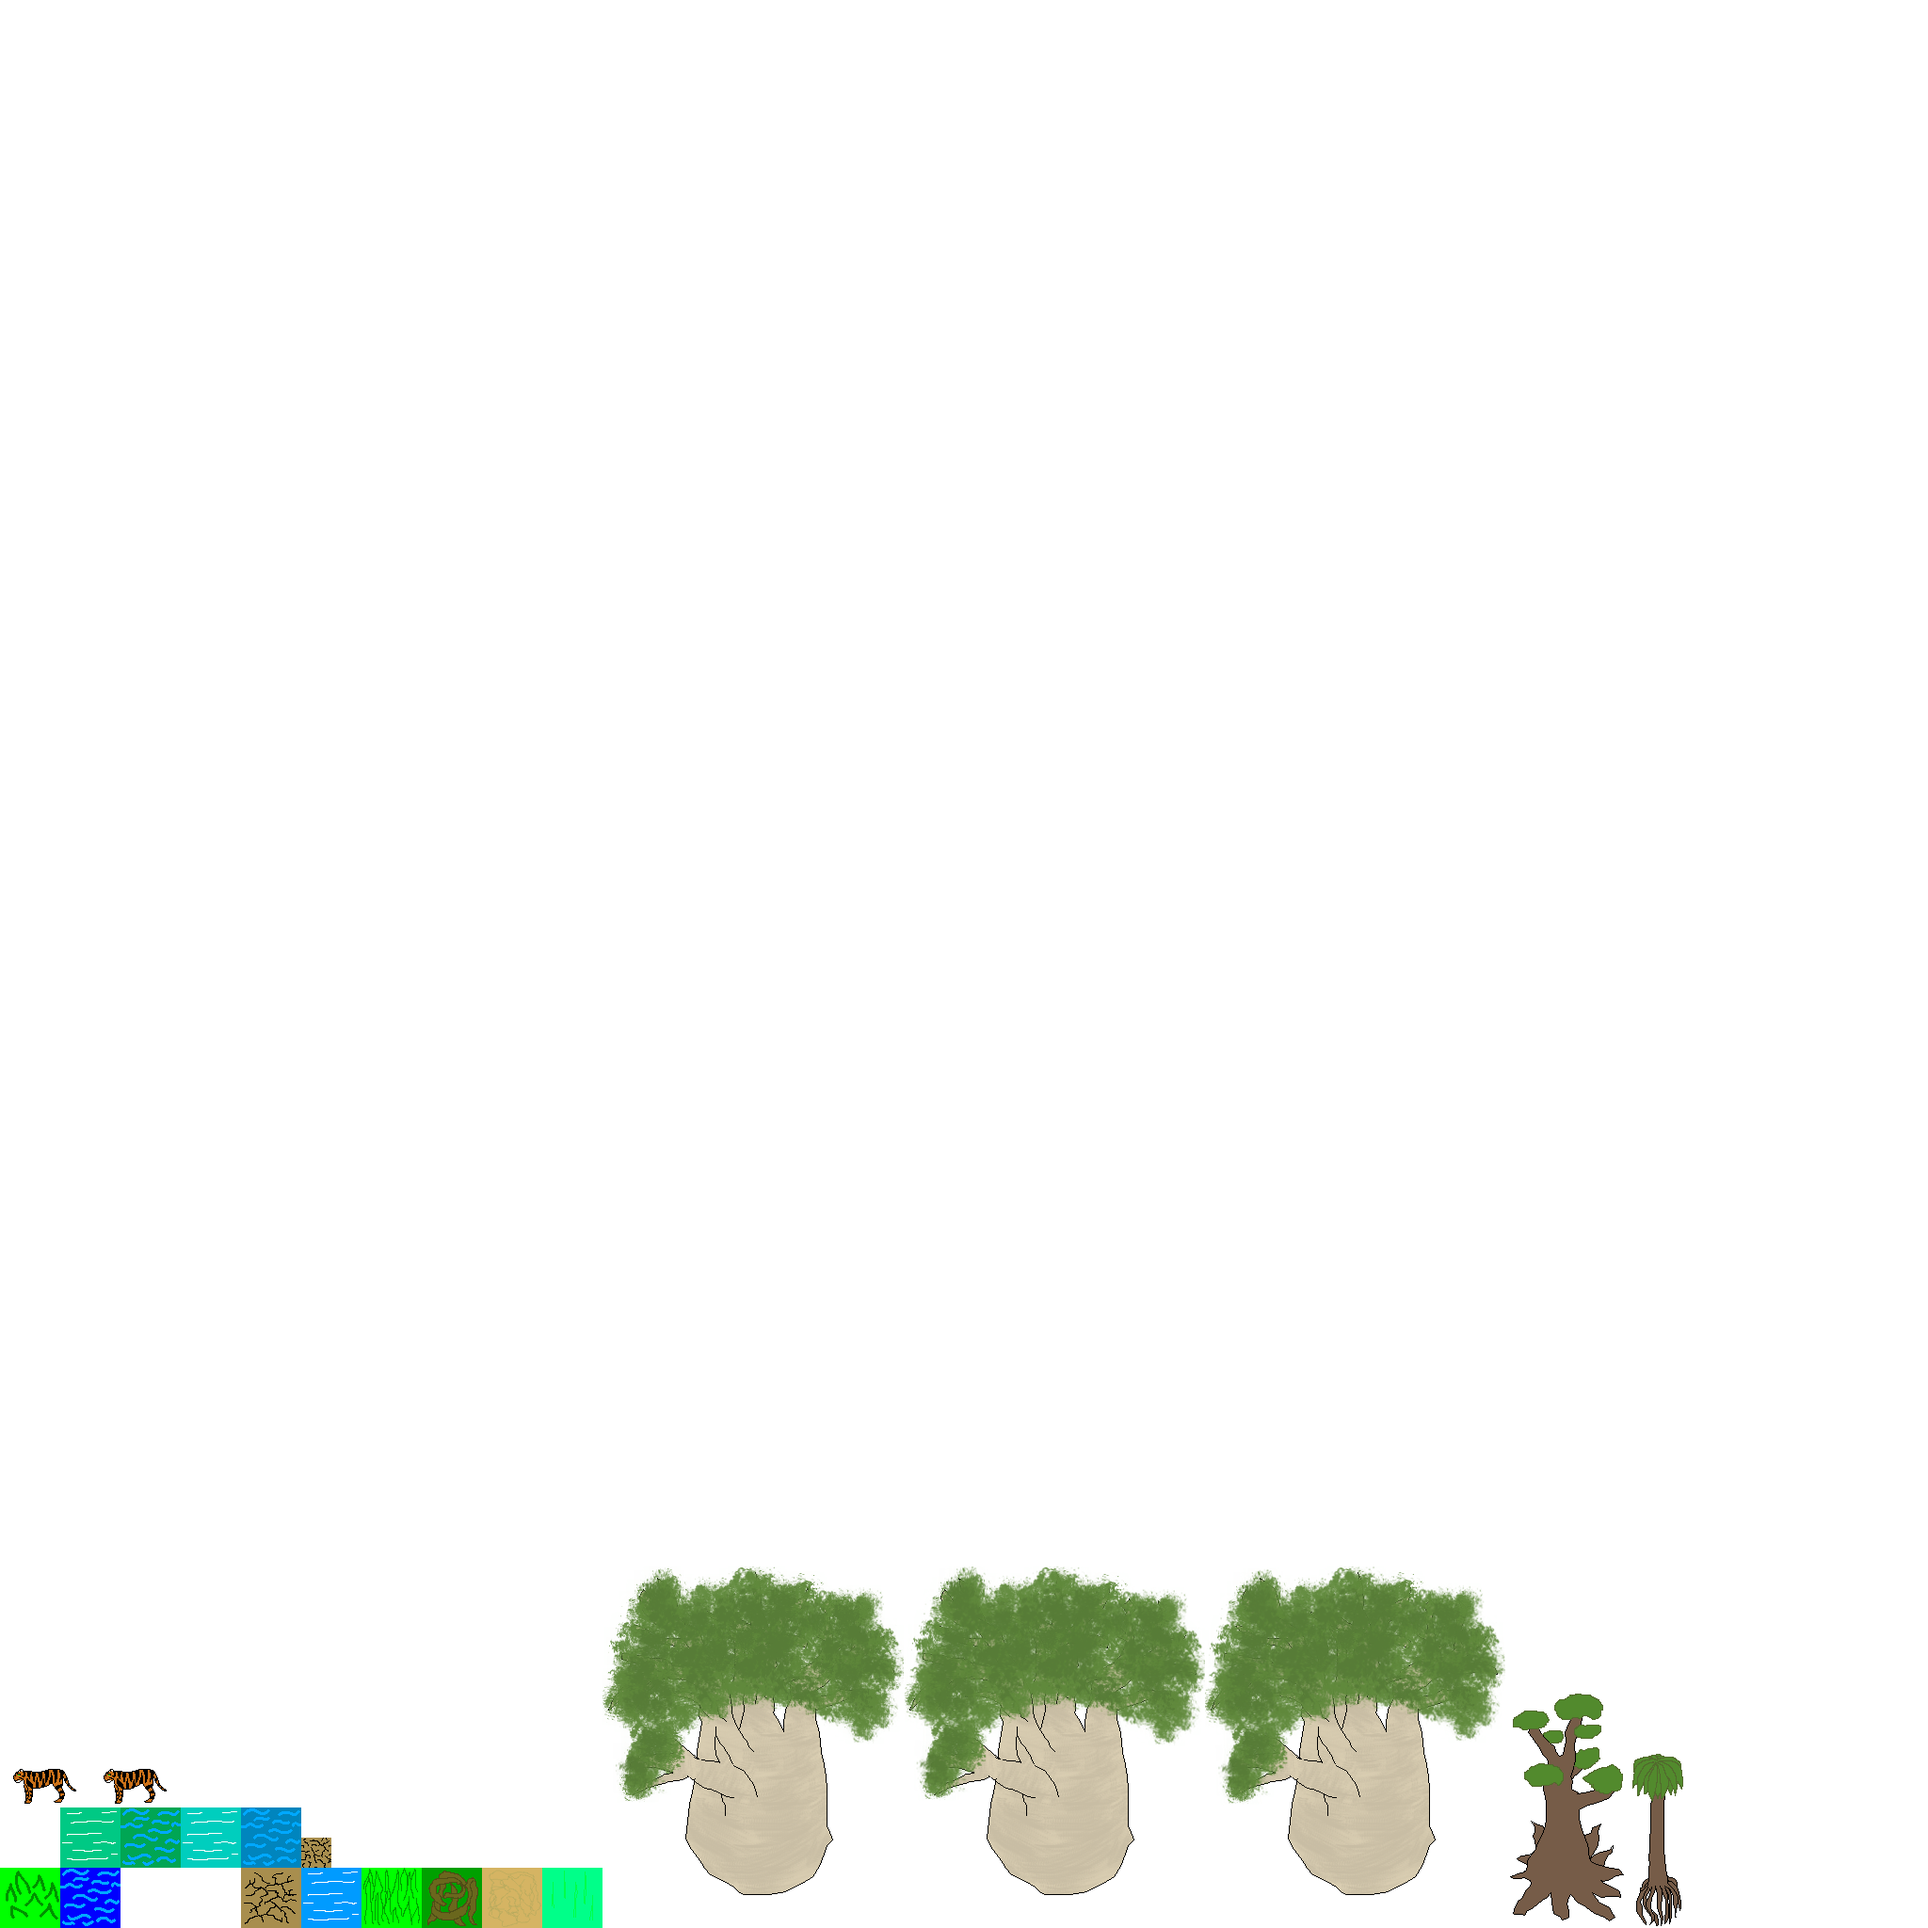
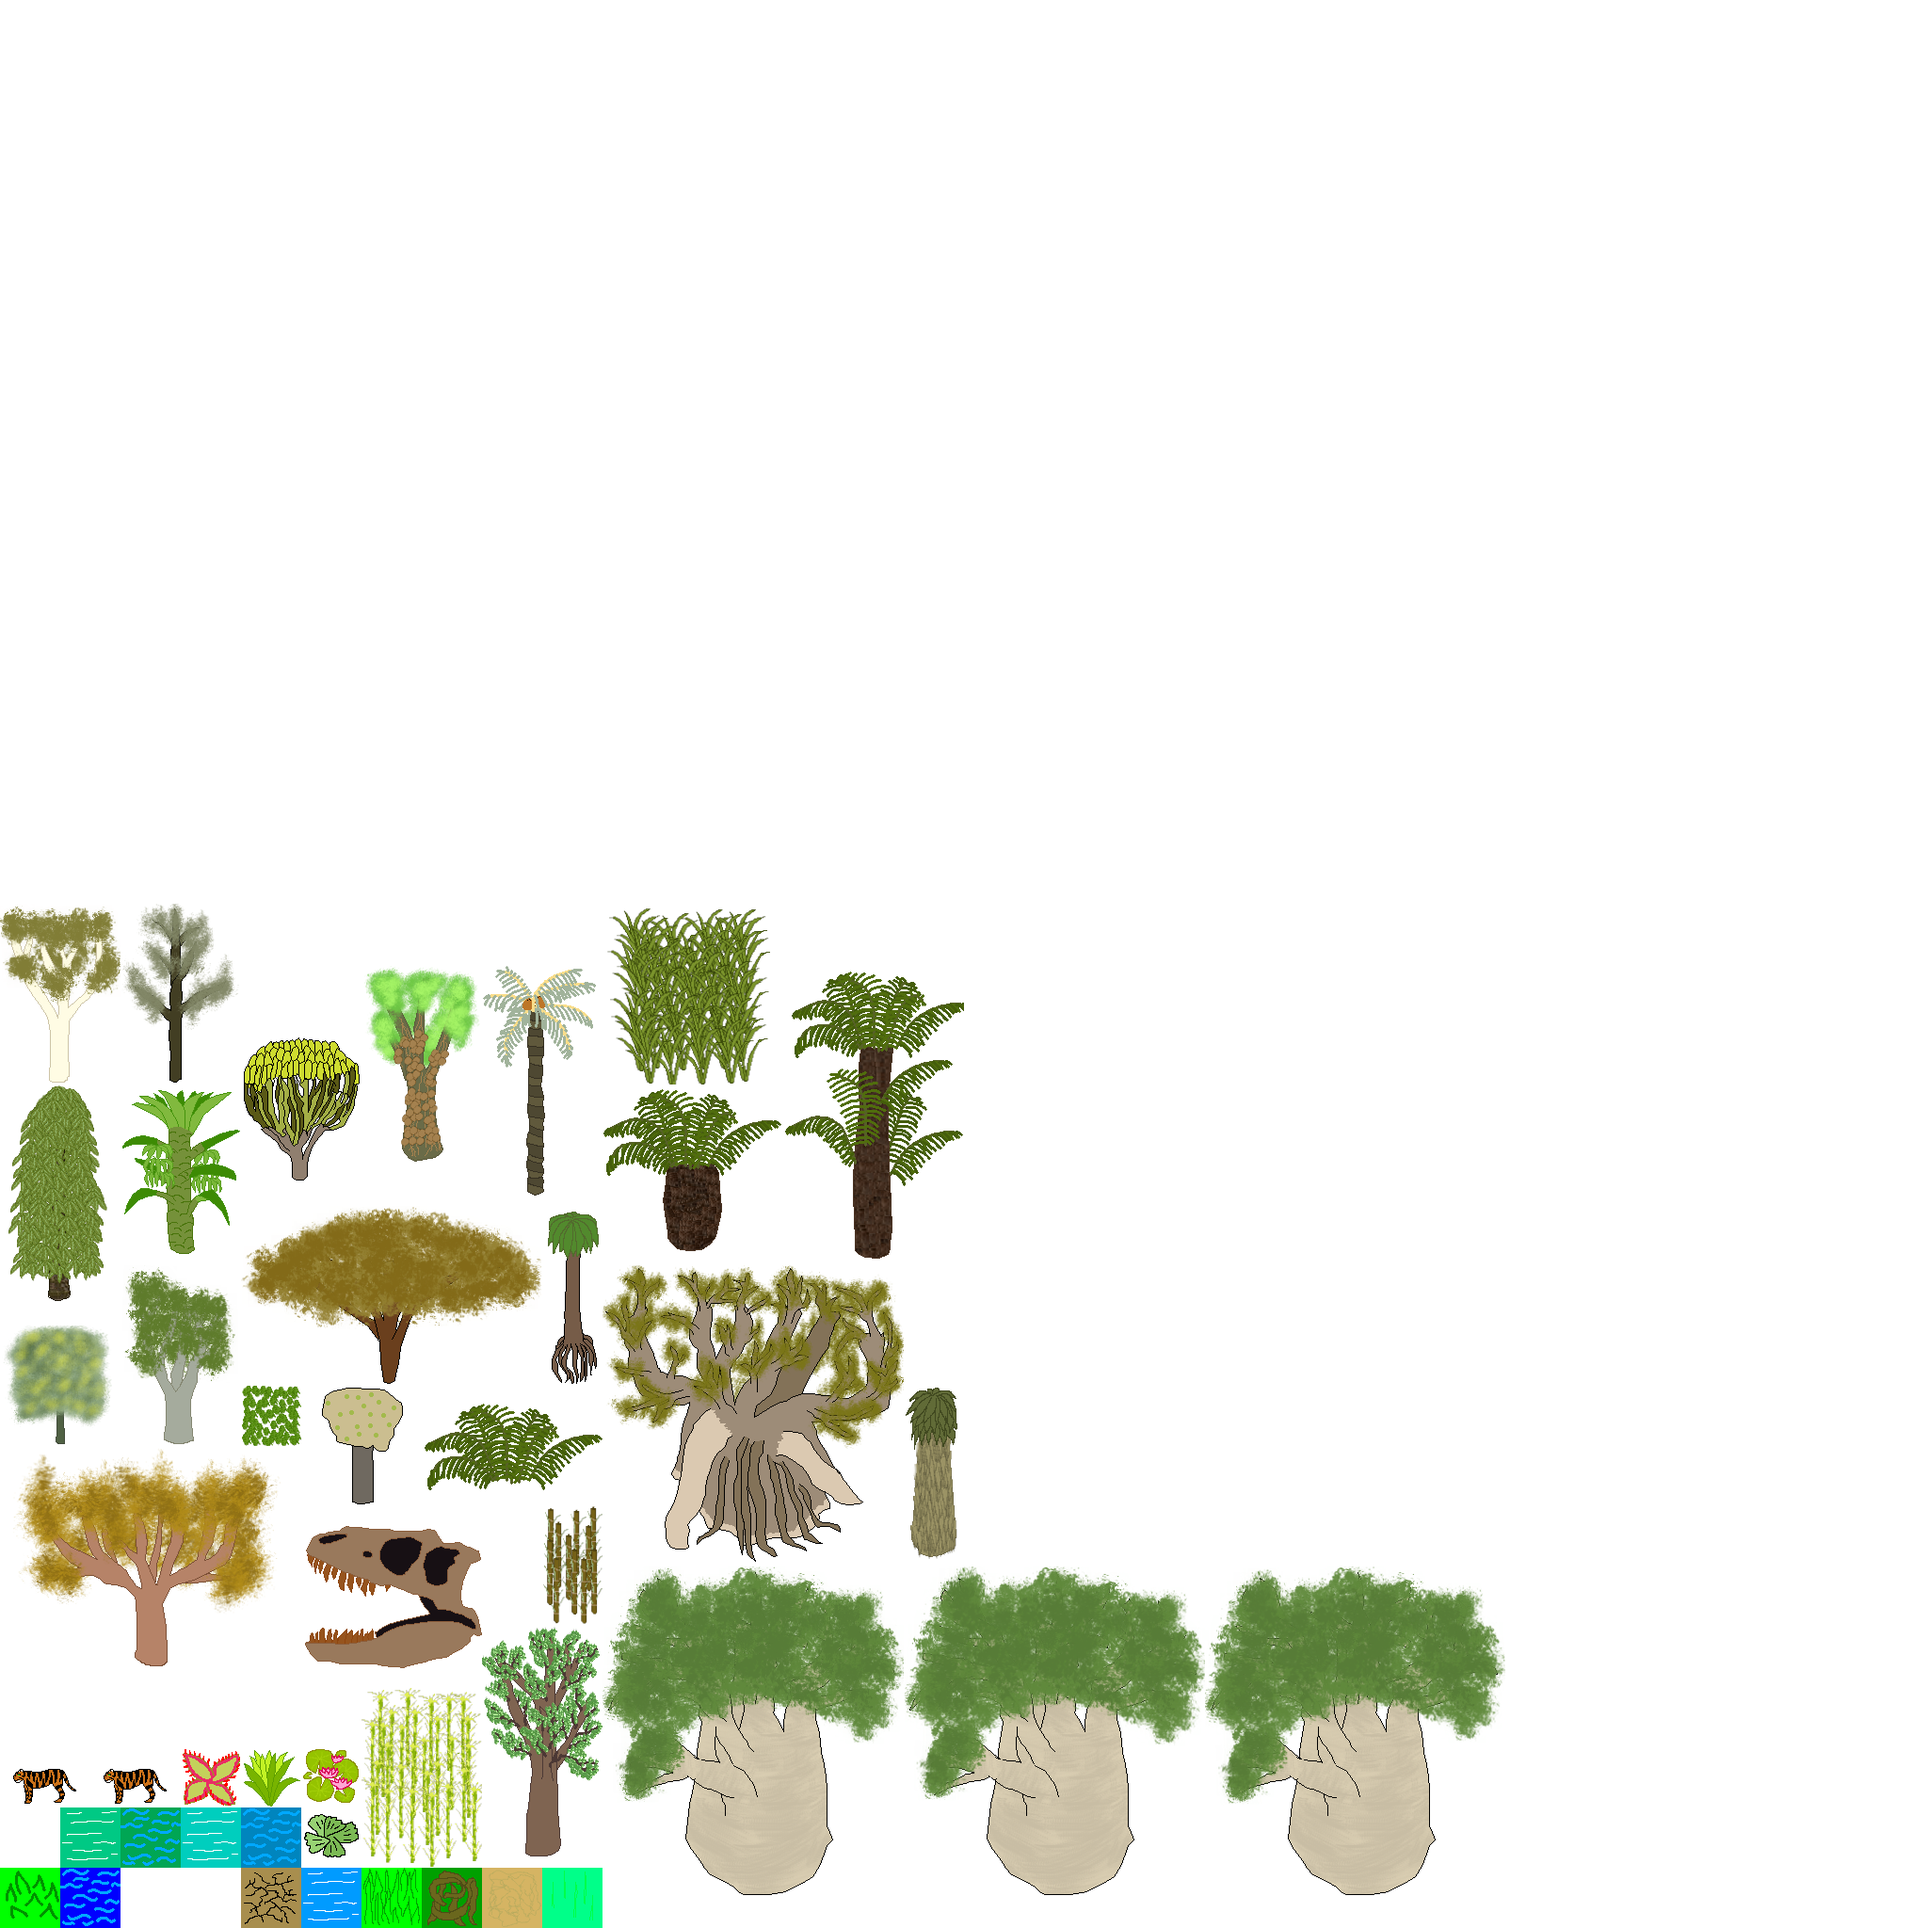
Added more images, atlas is now described by xml file.

Changed region(s): [[0.0, 0.4688, 0.5, 0.9688], [0.7812, 0.875, 0.875, 1.0]]

diff --git a/wpfTest/GUI/OpenGLAtlasDrawer.cs b/wpfTest/GUI/OpenGLAtlasDrawer.cs
@@ -97,12 +97,12 @@ namespace wpfTest
             nutrientsMap.VertexBufferArray.Bind(gl);
             gl.DrawArrays(OpenGL.GL_TRIANGLES, 0, 30000);
 
-            if (!unitsEmpty)
+            if (!entitiesEmpty)
             {
                 unitCircles.VertexBufferArray.Bind(gl);
                 gl.DrawArrays(OpenGL.GL_TRIANGLES, 0, 10000);
 
-                units.VertexBufferArray.Bind(gl);
+                entities.VertexBufferArray.Bind(gl);
                 gl.DrawArrays(OpenGL.GL_TRIANGLES, 0, 10000);
 
                 unitIndicators.VertexBufferArray.Bind(gl);
@@ -281,12 +281,12 @@ namespace wpfTest
         private static MyBufferArray flowMap;
         private static MyBufferArray nutrientsMap;
         private static MyBufferArray unitCircles;
-        private static MyBufferArray units;
+        private static MyBufferArray entities;
         private static MyBufferArray unitIndicators;
         private static MyBufferArray selectionFrame;
 
         //true if there are no units to draw
-        private static bool unitsEmpty;
+        private static bool entitiesEmpty;
 
         /// <summary>
         /// Creates vertex buffer array and its buffers for gl.
@@ -663,12 +663,12 @@ namespace wpfTest
             int size = visEntity.Count;
             if (size == 0)
             {
-                unitsEmpty = true;
+                entitiesEmpty = true;
                 return;
             }
             else
             {
-                unitsEmpty = false;
+                entitiesEmpty = false;
             }
 
             /*float[] vertices = new float[size * 6 * 3];
@@ -745,9 +745,9 @@ namespace wpfTest
         /// Creates vertex buffer array and its buffers for gl.
         /// </summary>
         /// <param name="gl">The instance of OpenGL.</param>
-        public static void CreateUnits(OpenGL gl)
+        public static void CreateEntities(OpenGL gl)
         {
-            units = new MyBufferArray(gl);
+            entities = new MyBufferArray(gl);
         }
 
         /// <summary>
@@ -756,7 +756,7 @@ namespace wpfTest
         /// </summary>
         /// <param name="gl">Instance of OpenGL.</param>
         /// <param name="mapView">Map view describing the map.</param>
-        public static void UpdateUnitsDataBuffers(OpenGL gl, MapView mapView, Game game)
+        public static void UpdateEntitiesDataBuffers(OpenGL gl, MapView mapView, Game game)
         {
             float nodeSize = mapView.NodeSize;
             float viewLeft = mapView.Left;
@@ -764,17 +764,17 @@ namespace wpfTest
             float viewBottom = mapView.Bottom;
             float viewRight = mapView.Right;
 
-            List<Entity> visUnits = mapView.GetVisibleEntities(game, game.CurrentPlayer);
+            List<Entity> visEntities = mapView.GetVisibleEntities(game, game.CurrentPlayer);
 
-            int size = visUnits.Count;
+            int size = visEntities.Count;
             if (size == 0)
             {
-                unitsEmpty = true;
+                entitiesEmpty = true;
                 return;
             }
             else
             {
-                unitsEmpty = false;
+                entitiesEmpty = false;
             }
 
             /*float[] vertices = new float[size * 6 * 3];
@@ -794,11 +794,11 @@ namespace wpfTest
             float[] texAtlas = map.texAtlas;
 
             //visible units have to be sorted to draw them properly
-            visUnits.Sort((u, v) => Math.Sign(v.Center.Y - u.Center.Y));
+            visEntities.Sort((u, v) => Math.Sign(v.Center.Y - u.Center.Y));
 
-            for (int i = 0; i < visUnits.Count; i++)
+            for (int i = 0; i < visEntities.Count; i++)
             {
-                Entity current = visUnits[i];
+                Entity current = visEntities[i];
                 //buffer indices
                 int index = i * 6 * 3;
                 int texIndex = i * 6 * 2;
@@ -812,7 +812,7 @@ namespace wpfTest
                 //unit image
                 {
                     Animation anim = current.AnimationState.Animation;
-
+                    
                     //tile position
                     float bottom = (current.Center.Y - anim.LeftBottom.Y - viewBottom) * unitSize;
                     float top = (current.Center.Y - anim.LeftBottom.Y - viewBottom + anim.Height) * unitSize;
@@ -839,7 +839,7 @@ namespace wpfTest
                 }
             }
 
-            units.BindData(gl, 3, vertices, 3, colors, 2, texture, 4, texAtlas);
+            entities.BindData(gl, 3, vertices, 3, colors, 2, texture, 4, texAtlas);
         }
 
         /// <summary>
@@ -870,12 +870,12 @@ namespace wpfTest
             int size = visUnits.Count;
             if (size == 0)
             {
-                unitsEmpty = true;
+                entitiesEmpty = true;
                 return;
             }
             else
             {
-                unitsEmpty = false;
+                entitiesEmpty = false;
             }
 
             /*float[] vertices = new float[size * 24 * 3];

diff --git a/wpfTest/GUI/ImageAtlas.cs b/wpfTest/GUI/ImageAtlas.cs
@@ -3,6 +3,7 @@ using System.Collections.Generic;
 using System.Linq;
 using System.Text;
 using System.Threading.Tasks;
+using System.Xml;
 
 namespace wpfTest.GUI
 {
@@ -16,7 +17,7 @@ namespace wpfTest.GUI
         private const int TILE_SIZE = 64;
         private const int ATLAS_WIDTH = 2048;
         private const int ATLAS_HEIGHT = 2048;
-        private Dictionary<string, Animation> unitsAnimations;
+        private Dictionary<string, Animation> entitiesAnimations;
         private Dictionary<int, Rect> glyphs;
 
         public Rect UnitCircle { get; }
@@ -47,7 +48,8 @@ namespace wpfTest.GUI
         private ImageAtlas()
         {
             InitializeDigitImages();
-            InitializeUnitsAnimations();
+            //InitializeUnitsAnimations();
+            LoadEntitiesAnimations("Images/atlas0.xml");
 
             UnitCircle = ToRelative(GridToCoordinates(2, 0, 1, 1));
             UnitsSelector = ToRelative(GridToCoordinates(3, 0, 1, 1));
@@ -89,14 +91,14 @@ namespace wpfTest.GUI
 
         private void InitializeUnitsAnimations()
         {
-            unitsAnimations = new Dictionary<string, Animation>();
-            AddUnitsAnimation("TIGER",
+            entitiesAnimations = new Dictionary<string, Animation>();
+            AddEntitiesAnimation("TIGER",
                 new Vector2(0.75f, 0.2f),
                 1.5f, 1f, 0.5f,
                 new List<Rect>()
                 { ToRelative(GridToCoordinates(0,2,1.5f,1)),
                   ToRelative(GridToCoordinates(1.5f,2,1.5f,1))});
-            AddUnitsAnimation("BAOBAB",
+            AddEntitiesAnimation("BAOBAB",
                 new Vector2(2.5f, 1.5f),
                 5, 6, 0.8f,
                 new List<Rect>()
@@ -106,9 +108,57 @@ namespace wpfTest.GUI
                   ToRelative(GridToCoordinates(20,0,5,6)),});
         }
 
-        private void AddUnitsAnimation(string unit, Vector2 leftBottom,float width, float height, float animChangeTimeS, List<Rect> images)
+        private void LoadEntitiesAnimations(string animationDescriptionFileName)
         {
-            unitsAnimations.Add(unit, new Animation(leftBottom,width, height, animChangeTimeS, images));
+            try
+            {
+            XmlDocument doc = new XmlDocument();
+            doc.Load(animationDescriptionFileName);
+
+            //iterate over all entities
+            entitiesAnimations = new Dictionary<string, Animation>();
+            foreach (XmlElement entity in doc.GetElementsByTagName("Entities")[0].ChildNodes)
+            {
+                string entityType = entity.GetAttribute("EntityType");
+                //iterate over all animations of the entity
+                foreach(XmlElement animation in entity.ChildNodes)
+                {
+                    XmlElement firstImage = (XmlElement)animation.FirstChild;
+                    float centerX = float.Parse(animation.GetAttribute("CenterX"));
+                    float centerY = float.Parse(animation.GetAttribute("CenterY"));
+                    float animWidth = float.Parse(firstImage.GetAttribute("Width"));
+                    float animHeight = float.Parse(firstImage.GetAttribute("Height"));
+                    
+                    //iterate over all images of the animation
+                    var animationImages = new List<Rect>();
+                    foreach (XmlElement image in animation.ChildNodes)
+                    {
+                        float x = float.Parse(image.GetAttribute("X"));
+                        float y = float.Parse(image.GetAttribute("Y"));
+                        float width = float.Parse(image.GetAttribute("Width"));
+                        float height = float.Parse(image.GetAttribute("Height"));
+                        animationImages.Add(
+                            ToRelative(
+                                GridToCoordinates(x, y, width, height)));
+                    }
+
+                    float animChangeTime = 0.5f;
+
+                    //add new animation to the animation dictionary
+                    AddEntitiesAnimation(entityType, new Vector2(centerX, centerY), animWidth, animHeight, animChangeTime, animationImages);
+                }
+            }
+            }catch(Exception e)
+            {
+                ;
+            }
+
+
+        }
+
+        private void AddEntitiesAnimation(string unit, Vector2 leftBottom,float width, float height, float animChangeTimeS, List<Rect> images)
+        {
+            entitiesAnimations.Add(unit, new Animation(leftBottom,width, height, animChangeTimeS, images));
         }
 
         /// <summary>
@@ -223,7 +273,7 @@ namespace wpfTest.GUI
         /// </summary>
         public Animation GetAnimation(string unitType)
         {
-            if (unitsAnimations.TryGetValue(unitType, out Animation anim))
+            if (entitiesAnimations.TryGetValue(unitType, out Animation anim))
                 return anim;
             else
                 return GetAnimation("BAOBAB");

diff --git a/wpfTest/GUI/MainWindow.xaml.cs b/wpfTest/GUI/MainWindow.xaml.cs
@@ -460,7 +460,7 @@ namespace wpfTest
             OpenGLAtlasDrawer.CreateMap(gl);
             OpenGLAtlasDrawer.CreateNutrientsMap(gl);
             OpenGLAtlasDrawer.CreateUnitCircles(gl);
-            OpenGLAtlasDrawer.CreateUnits(gl);
+            OpenGLAtlasDrawer.CreateEntities(gl);
             OpenGLAtlasDrawer.CreateUnitIndicators(gl);
             OpenGLAtlasDrawer.CreateFlowMap(gl);
             OpenGLAtlasDrawer.CreateSelectionFrame(gl);
@@ -478,7 +478,7 @@ namespace wpfTest
                 OpenGLAtlasDrawer.UpdateMapDataBuffers(gl, gameControls.MapView, game);
                 OpenGLAtlasDrawer.UpdateNutrientsMapDataBuffers(gl, gameControls.MapView, game);
                 OpenGLAtlasDrawer.UpdateEntityCirclesDataBuffers(gl, gameControls.MapView, game);
-                OpenGLAtlasDrawer.UpdateUnitsDataBuffers(gl, gameControls.MapView, game);
+                OpenGLAtlasDrawer.UpdateEntitiesDataBuffers(gl, gameControls.MapView, game);
                 OpenGLAtlasDrawer.UpdateUnitIndicatorsDataBuffers(gl, gameControls.MapView, game);
                 OpenGLAtlasDrawer.UpdateFlowMapDataBuffers(gl, gameControls.MapView, game);
                 OpenGLAtlasDrawer.UpdateSelectionFrameDataBuffers(gl, gameControls.MapView, gameControls.MapSelectorFrame);

diff --git a/wpfTest/GameLogic/Data/Entities/Building.cs b/wpfTest/GameLogic/Data/Entities/Building.cs
@@ -74,10 +74,10 @@ namespace wpfTest.GameLogic
             Terrain = terrain;
             SoilQuality = soilQuality;
             Aggressive = aggressive;
-            
+
+            NodeLeft = nodes[0, 0].X;
+            NodeBottom = nodes[0, 0].Y;
             Center = new Vector2(nodes[0, 0].X + Range, nodes[0, 0].Y + Range);
-            NodeLeft = nodes[0,0].X;
-            NodeBottom = nodes[0,0].Y;
         }
 
         /// <summary>

diff --git a/wpfTest/GameLogic/Game.cs b/wpfTest/GameLogic/Game.cs
@@ -53,7 +53,7 @@ namespace wpfTest
             foreach (Animal u in CurrentPlayer.Units)
             {
                 u.Abilities.Add(CurrentPlayer.GameStaticData.Abilities.Attack);
-                u.Abilities.Add(CurrentPlayer.GameStaticData.Abilities.PlantBuilding("BAOBAB"));
+                u.Abilities.Add(CurrentPlayer.GameStaticData.Abilities.PlantBuilding("KAPOC"));
             }
         }
 
